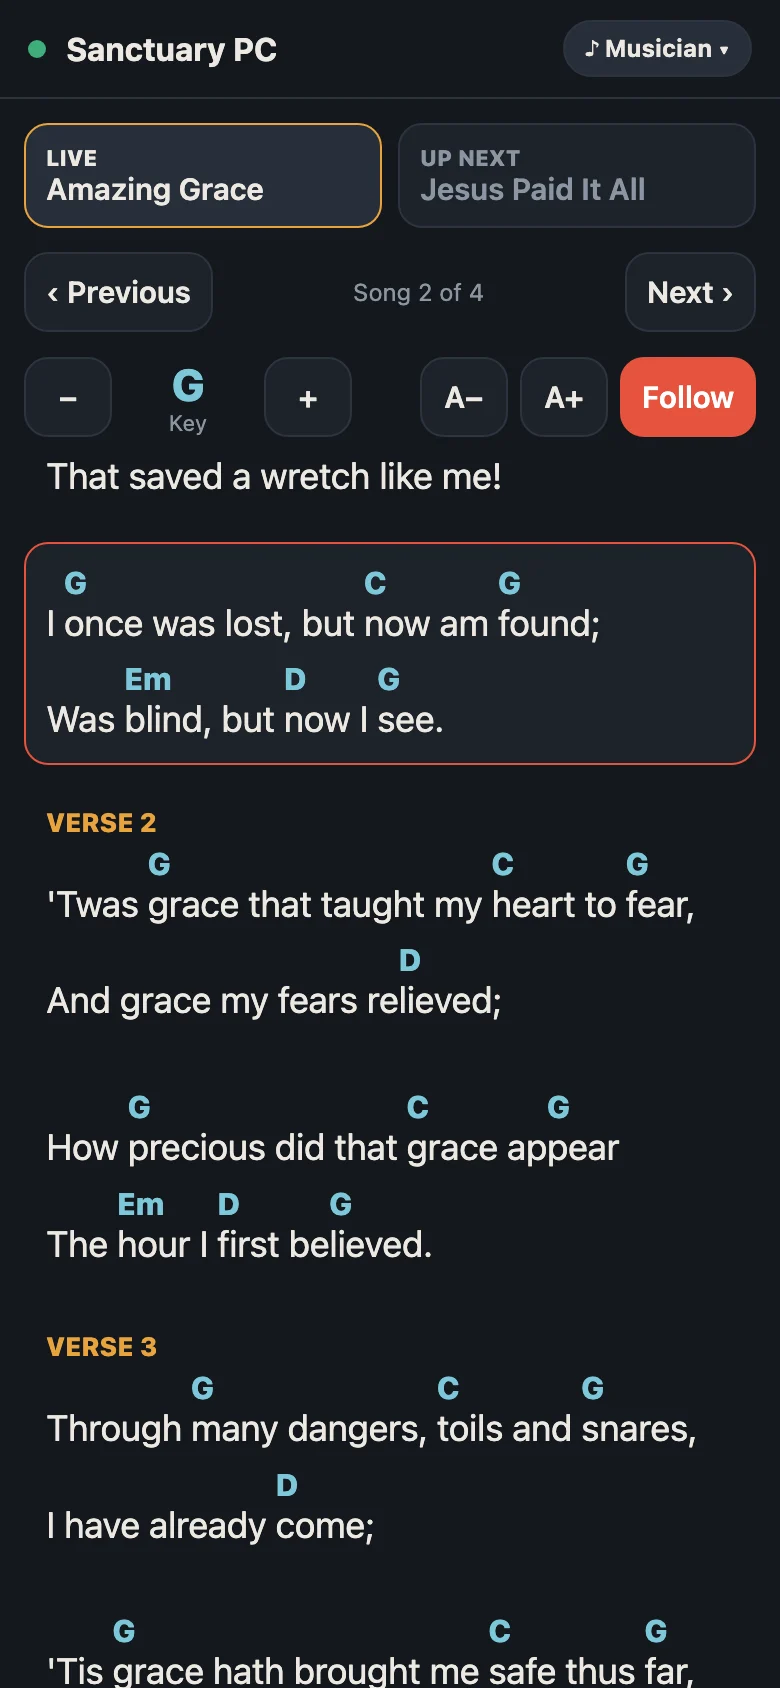
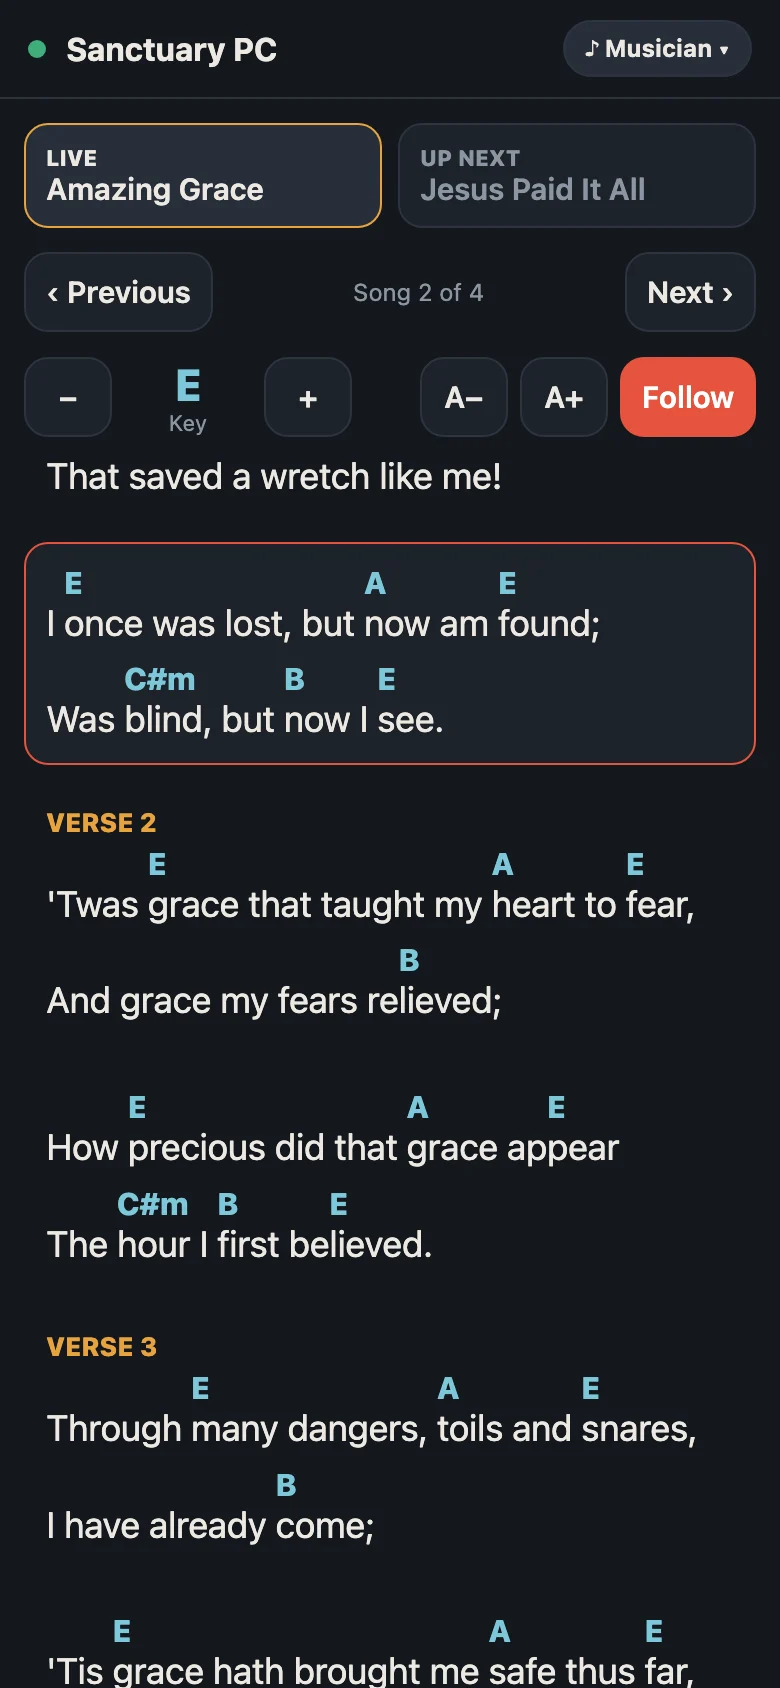
Screenshot carousel with minimal mode; remotes recaptured in E
The desktop screenshots become a carousel (swipe, arrows, dots or arrow
keys): the full layout and minimal mode on a smaller screen. The Monitor
and Musician remote screenshots are recaptured with Amazing Grace in E,
matching the desktop one.

diff --git a/index.html b/index.html
@@ -97,13 +97,32 @@
   pre { margin: 10px 0 0; overflow-x: auto; }
   pre code { display: block; padding: 10px 12px; }
 
-  /* Real screenshots */
-  .shot { margin: 44px auto 0; max-width: 1040px; }
-  .shot img {
-    display: block; width: 100%; height: auto; border-radius: 12px;
-    border: 1px solid var(--border); box-shadow: 0 30px 80px rgba(0, 0, 0, 0.55), 0 0 0 1px rgba(255, 255, 255, 0.02);
+  /* Real screenshots: a carousel of the desktop app */
+  .carousel { position: relative; margin: 36px auto 0; max-width: 1080px; }
+  .slides {
+    display: flex; overflow-x: auto; scroll-snap-type: x mandatory; scroll-behavior: smooth;
+    scrollbar-width: none; outline: none; position: relative;
   }
-  .shot figcaption, .phones figcaption { color: var(--muted); font-size: 14px; margin-top: 12px; text-align: center; }
+  .slides::-webkit-scrollbar { display: none; }
+  .slide { flex: 0 0 100%; margin: 0; padding: 16px 20px 0; scroll-snap-align: center; }
+  .frame { aspect-ratio: 1440 / 900; display: flex; align-items: center; justify-content: center; }
+  .frame img {
+    display: block; max-width: 100%; max-height: 100%; width: auto; height: auto; border-radius: 12px;
+    border: 1px solid var(--border); box-shadow: 0 24px 60px rgba(0, 0, 0, 0.55);
+  }
+  .slide figcaption, .phones figcaption { color: var(--muted); font-size: 14px; margin-top: 14px; text-align: center; }
+  .nav {
+    position: absolute; top: calc(50% - 40px); width: 44px; height: 44px; border-radius: 50%;
+    border: 1px solid var(--border); background: rgba(29, 34, 41, 0.9); color: var(--text);
+    font-size: 26px; line-height: 1; cursor: pointer; display: grid; place-items: center;
+  }
+  .nav:hover { border-color: var(--accent); }
+  .nav:disabled { opacity: 0.35; cursor: default; }
+  .nav.prev { left: -6px; }
+  .nav.next { right: -6px; }
+  .dots { display: flex; justify-content: center; gap: 8px; margin-top: 14px; }
+  .dots button { width: 9px; height: 9px; padding: 0; border-radius: 50%; border: 0; background: var(--border); cursor: pointer; }
+  .dots button[aria-current="true"] { background: var(--accent); width: 24px; border-radius: 5px; }
   .phones { display: flex; gap: 22px; justify-content: center; flex-wrap: wrap; }
   .phones figure { margin: 0; width: 230px; }
   .phones img {
@@ -119,7 +138,9 @@
 
   @media (max-width: 720px) {
     .hero { padding: 48px 0 40px; }
-    .shot { margin-top: 32px; }
+    .carousel { margin-top: 28px; }
+    .slide { padding: 8px 0 0; }
+    .nav { display: none; }
     .phones figure { width: 46%; min-width: 150px; }
     section { padding: 44px 0; }
     .remote { grid-template-columns: 1fr; }
@@ -145,10 +166,24 @@
       <div id="note" class="others"></div>
     </div>
 
-    <figure class="shot">
-      <img src="assets/screenshot-app.webp" width="1440" height="900" alt="Psaltercast running a Sunday service: the schedule with Worship, Word and Response groups on the left, the preview in the middle, and Amazing Grace live on the right in English with Vietnamese underneath.">
-      <figcaption>A real service in Psaltercast: the schedule, the preview, and Amazing Grace live in two languages.</figcaption>
-    </figure>
+    <div class="carousel" role="region" aria-roledescription="carousel" aria-label="Screenshots">
+      <div class="slides" id="slides" tabindex="0">
+        <figure class="slide" id="shot-full" aria-roledescription="slide" aria-label="1 of 2">
+          <div class="frame"><img src="assets/screenshot-app.webp" width="1440" height="900" alt="Psaltercast running a Sunday service: the schedule with Worship, Word and Response groups on the left, the preview in the middle, and Amazing Grace live on the right in English with Vietnamese underneath."></div>
+          <figcaption>A real service: the schedule, the preview, and Amazing Grace live in English and Vietnamese.</figcaption>
+        </figure>
+        <figure class="slide" id="shot-minimal" aria-roledescription="slide" aria-label="2 of 2">
+          <div class="frame"><img src="assets/screenshot-minimal.webp" width="1024" height="720" loading="lazy" alt="Psaltercast in minimal mode on a smaller screen: only the schedule and the live output, with a slimmer toolbar."></div>
+          <figcaption>Minimal mode for smaller screens: just the schedule and what's live.</figcaption>
+        </figure>
+      </div>
+      <button class="nav prev" type="button" aria-controls="slides" aria-label="Previous screenshot">‹</button>
+      <button class="nav next" type="button" aria-controls="slides" aria-label="Next screenshot">›</button>
+      <div class="dots" role="group" aria-label="Choose a screenshot">
+        <button type="button" data-to="0" aria-label="Full layout" aria-current="true"></button>
+        <button type="button" data-to="1" aria-label="Minimal mode"></button>
+      </div>
+    </div>
   </div>
 </header>
 
@@ -226,6 +261,45 @@
 </footer>
 
 <script>
+// Screenshot carousel: swipe or scroll, the arrows, the dots or ← → keys.
+(() => {
+  const track = document.getElementById("slides");
+  const slides = [...track.children];
+  const dots = [...document.querySelectorAll(".dots button")];
+  const prev = document.querySelector(".nav.prev");
+  const next = document.querySelector(".nav.next");
+  // The slide nearest the middle of the track (works mid-swipe and at any width).
+  const current = () => {
+    const middle = track.scrollLeft + track.clientWidth / 2;
+    let best = 0;
+    slides.forEach((slide, i) => {
+      const distance = (s) => Math.abs(s.offsetLeft + s.offsetWidth / 2 - middle);
+      if (distance(slide) < distance(slides[best])) best = i;
+    });
+    return best;
+  };
+  // Marks slide `i` (default: the one in view) in the dots and arrows.
+  const update = (i = current()) => {
+    dots.forEach((d, n) => d.setAttribute("aria-current", String(n === i)));
+    prev.disabled = i === 0;
+    next.disabled = i === slides.length - 1;
+  };
+  const go = (i) => {
+    const target = Math.max(0, Math.min(slides.length - 1, i));
+    track.scrollTo({ left: slides[target].offsetLeft });
+    update(target);
+  };
+  prev.addEventListener("click", () => go(current() - 1));
+  next.addEventListener("click", () => go(current() + 1));
+  dots.forEach((d) => d.addEventListener("click", () => go(+d.dataset.to)));
+  track.addEventListener("keydown", (e) => {
+    if (e.key === "ArrowLeft") { e.preventDefault(); go(current() - 1); }
+    if (e.key === "ArrowRight") { e.preventDefault(); go(current() + 1); }
+  });
+  track.addEventListener("scroll", () => update(), { passive: true });
+  update();
+})();
+
 (() => {
   const REPO = "davidkngo/psaltercast-release";
   // The installer; older releases only had a zip.
